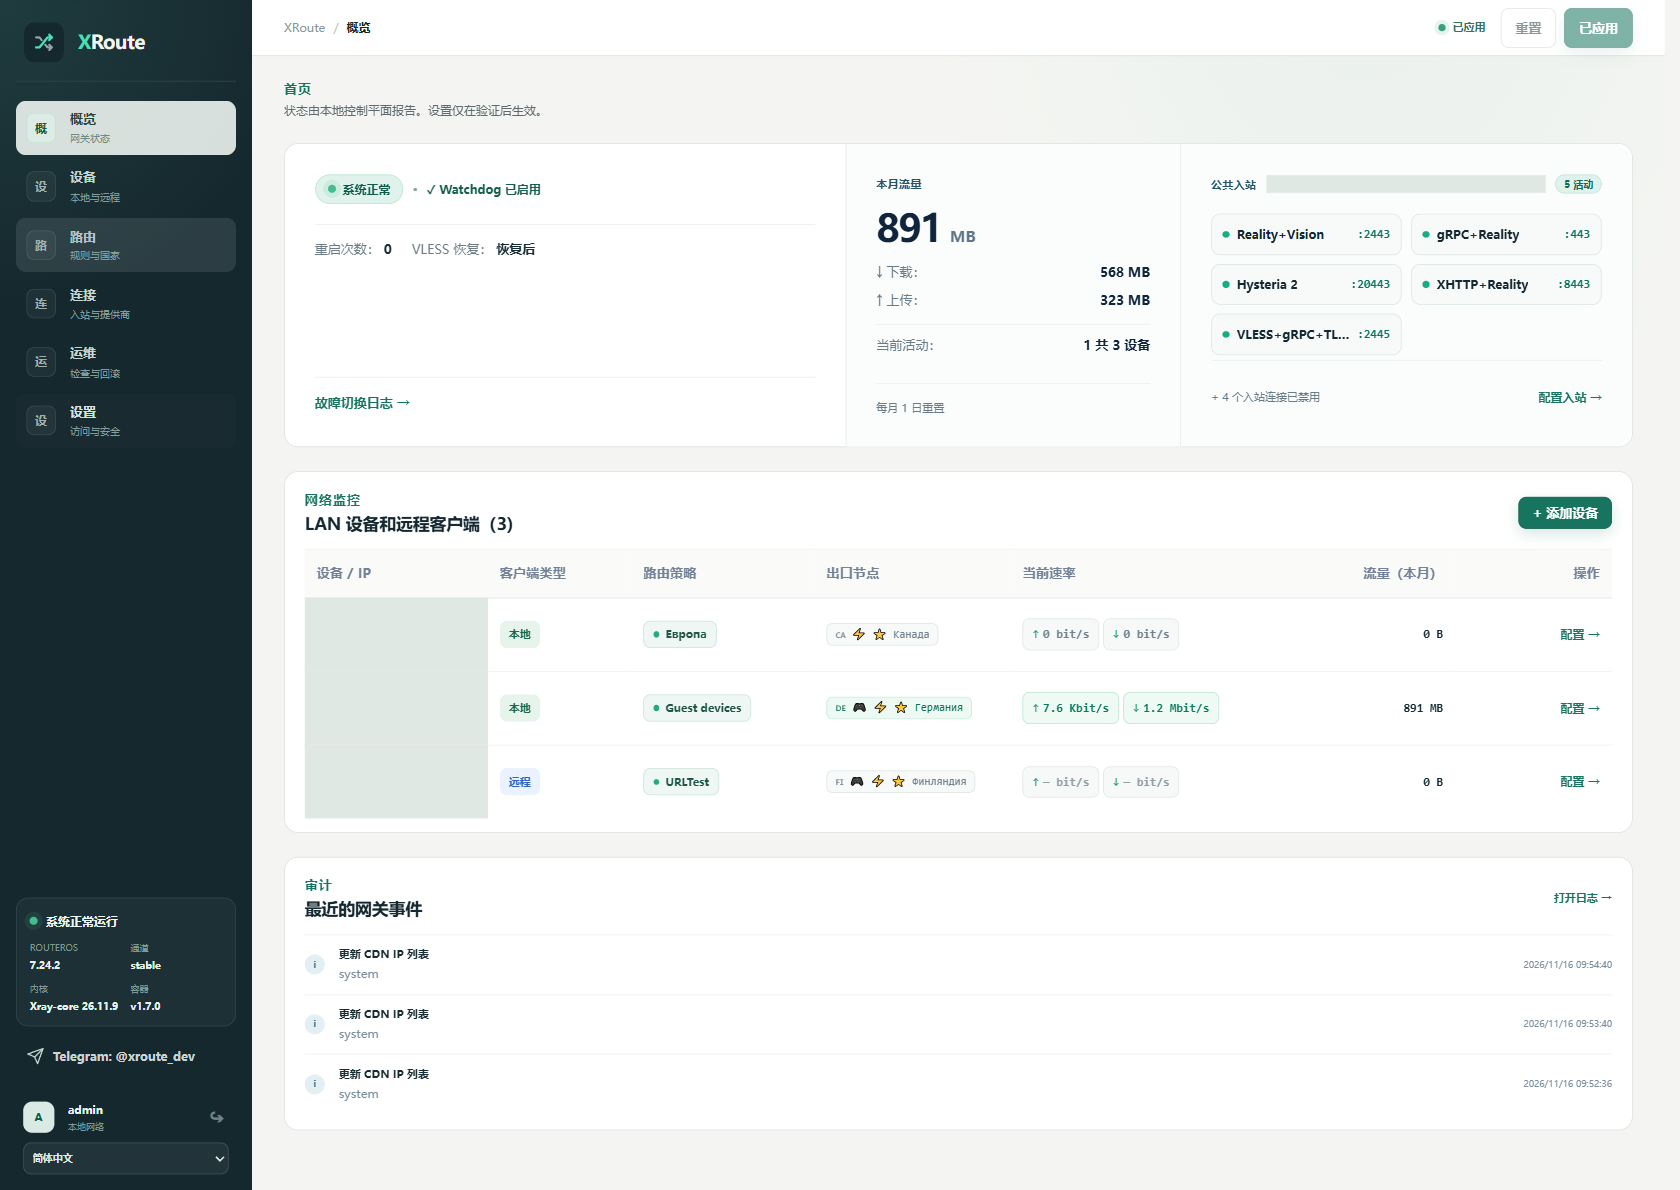
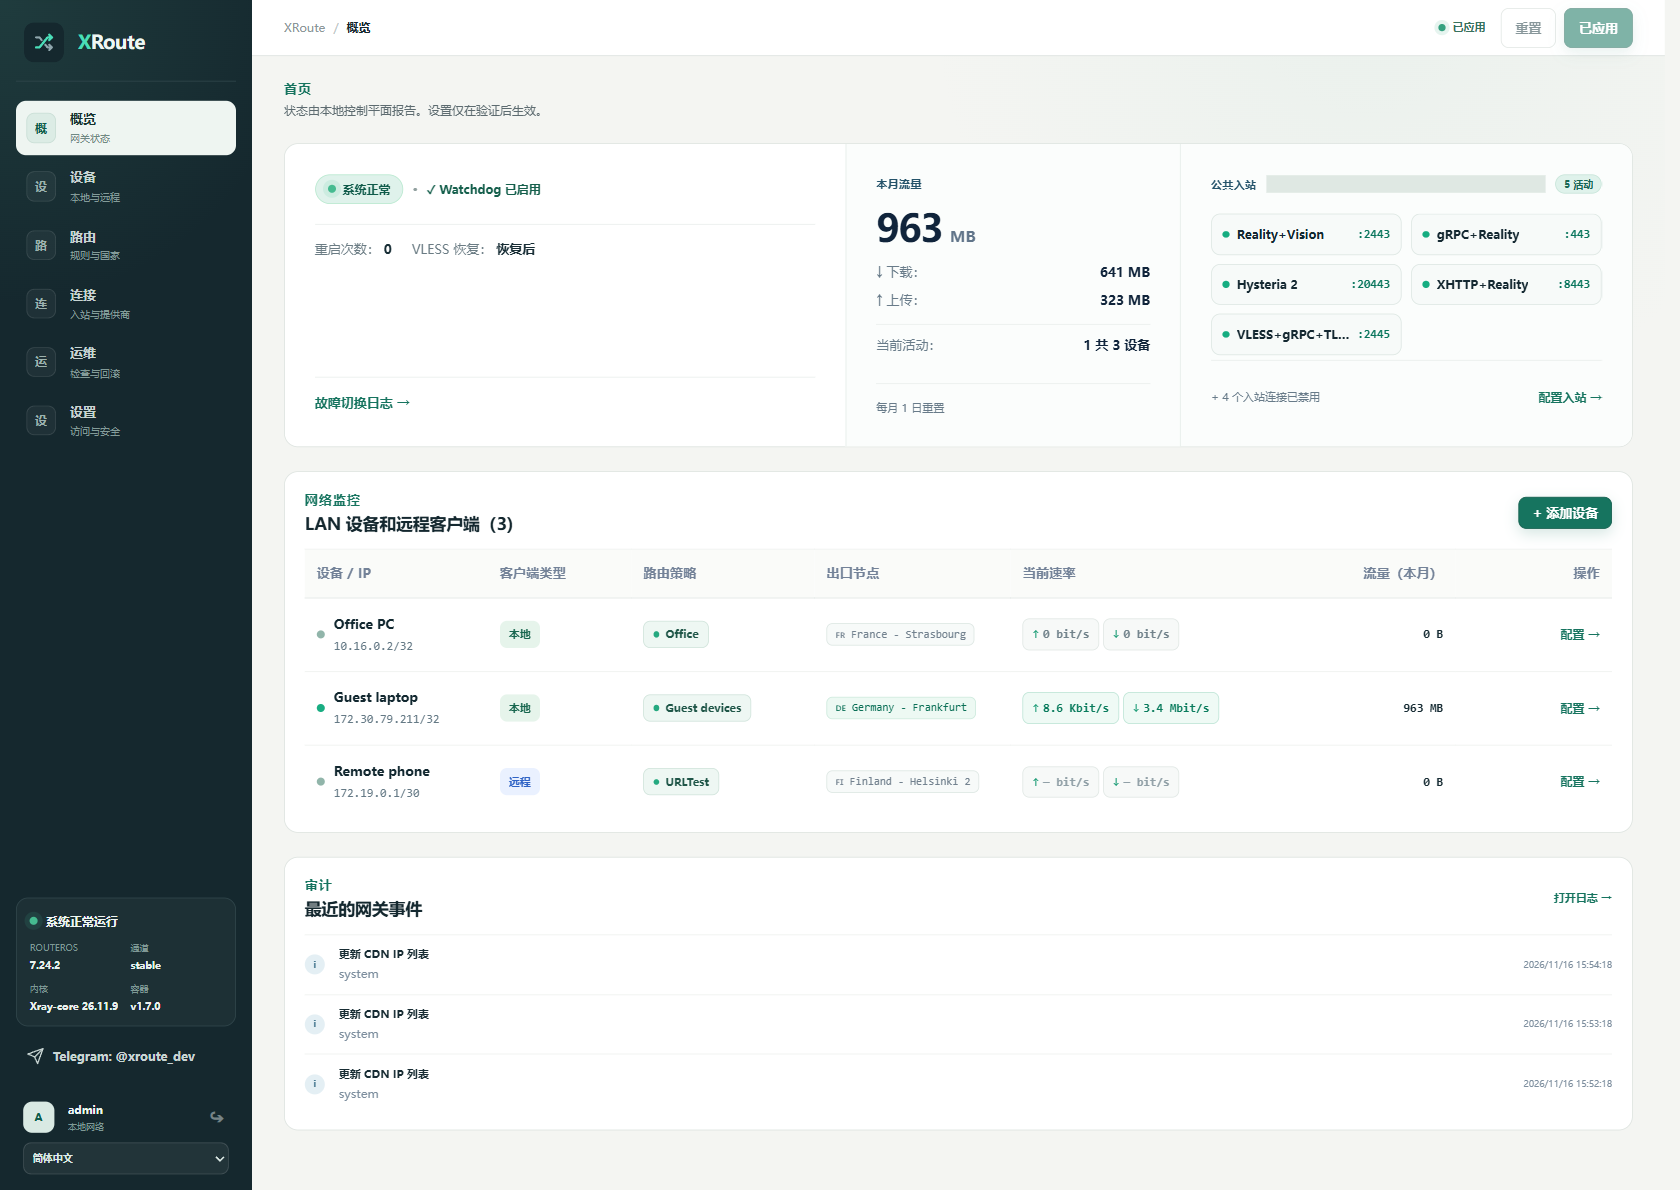
docs: show English nodes and populated live comparisons

diff --git a/docs/DEVELOPMENT-CHECKS.md b/docs/DEVELOPMENT-CHECKS.md
@@ -553,8 +553,10 @@ installation after its status and traffic counters have loaded. Capture the
 overview and a populated routing policy, with the same UI language as its README.
 Use complete application views without cutting controls or capturing loading
 placeholders. Keep recorded measurements unchanged and redact network addresses,
-client identities and other private values. Synthetic regression fixtures are
-not presented as live screenshots.
+client identities and other private values. Deliberately assigned example device
+names and private test addresses may remain visible in a test installation;
+public endpoints stay hidden. Keep the overview and routing screenshots visible
+in each README. Synthetic regression fixtures are not presented as live screenshots.
 
 Product and design notes live in docs/internal/PRODUCT.md and
 docs/internal/DESIGN.md. Next.js creates the static container UI;

diff --git a/README.md b/README.md
@@ -16,14 +16,9 @@ This release provides ARM64 images. The x86-64 CHR build will follow after separ
 
 ![XRoute overview in English](docs/images/panel-overview-en.png)
 
-<details>
-<summary>Routing and node quality</summary>
-
 ![Route quality in a running XRoute panel](docs/images/panel-routing-en.png)
 
-</details>
-
-Screenshots from a running installation. Network addresses are hidden.
+Live screenshots from a test installation. Device names and local IP addresses are examples; public endpoints are hidden.
 
 ## What you need
 

diff --git a/README-ZH-TW.md b/README-ZH-TW.md
@@ -15,14 +15,9 @@
 
 ![運作中的 XRoute 面板總覽](docs/images/panel-overview-zh-Hant.png)
 
-<details>
-<summary>路由與節點品質</summary>
-
 ![實際運作的 XRoute 節點品質面板](docs/images/panel-routing-zh-Hant.png)
 
-</details>
-
-截圖取自實際運作中的面板，網路位址已隱藏。
+運作中的測試環境截圖。裝置名稱與本機 IP 位址為測試資料，公開位址已隱藏。
 
 ## 需要準備什麼
 

diff --git a/README-ZH.md b/README-ZH.md
@@ -14,14 +14,9 @@
 
 ![运行中的 XRoute 面板概览](docs/images/panel-overview-zh-Hans.png)
 
-<details>
-<summary>路由与节点质量</summary>
-
 ![运行中的 XRoute 节点质量面板](docs/images/panel-routing-zh-Hans.png)
 
-</details>
-
-截图来自实际运行的面板，网络地址已隐藏。
+运行中的测试环境截图。设备名称和本地 IP 地址为测试数据，公网地址已隐藏。
 
 ## 需要准备什么
 
